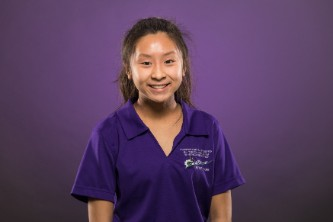
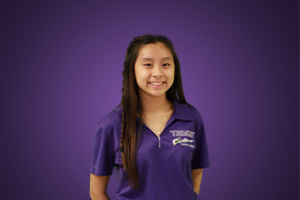
All team members who answered the survey 1/11/2020

diff --git a/src/pageLayouts/frc/Team/Team.js b/src/pageLayouts/frc/Team/Team.js
@@ -202,7 +202,7 @@ const Team = ({ teamList }) => {
               <QuoteLeft fill="grey" />
             </div>
             <img
-              src={require("../../../assets/images/frc/members/Programming/Programming.jpg")}
+              src={require("../../../assets/images/frc/members/Programming/Pro Team.png")}
               className="team__img"
             />
             <p>
@@ -265,7 +265,7 @@ const Team = ({ teamList }) => {
               <QuoteLeft fill="grey" />
             </div>
             <img
-              src={require("../../../assets/images/frc/members/Sponsorship/Sponsorship.jpg")}
+              src={require("../../../assets/images/frc/members/Sponsorship/Sponsorship.png")}
               className="team__img"
             />
             <p>
@@ -316,7 +316,7 @@ const Team = ({ teamList }) => {
               <QuoteLeft fill="grey" />
             </div>
             <img
-              src={require("../../../assets/images/frc/members/Outreach/Outreach.jpg")}
+              src={require("../../../assets/images/frc/members/Outreach/Outreach.png")}
               className="team__img"
             />
             <p>
@@ -387,45 +387,6 @@ const Team = ({ teamList }) => {
               {GetMember("Outreach", teamList)}
             </div>
           </Tab>
-          <Tab name="Strategy">
-            <h1>Strategy</h1>
-            <div className="team__greybox">
-              <h2>Subteam Specific Mission Statement</h2>
-              <QuoteRight fill="grey" />
-              To efficiently and accurately gather data on various aspects of
-              other teams and effectively present the data to the team to assist
-              in the decision making process for alliance selection.
-              <QuoteLeft fill="grey" />
-            </div>
-            <img src={require('../../../assets/images/frc/members/Strategy/Strategy.jpg')} className="team__img" />
-            <p>
-              The ILITE Strategy Team is responsible for gathering relevant data
-              on other team's performance according to this year's game. This
-              requires the development and use of organizational, decision
-              making, presentation, and quick thinking skills. The Strategy
-              Team's data helps ensure that informed decisions are made
-              regarding alliance selection and affiliated teams.
-            </p>
-            <div className="team__greybox">
-              <h2>Goals</h2>
-              <ol>
-                <li>
-                  To efficiently and accurately gather data on other teams.
-                </li>
-                <li>
-                  To effectively present gathered data to the team for alliance
-                  selection.
-                </li>
-                <li>
-                  To design an easily usable and game specific scouting form for
-                  implementation during competition.
-                </li>
-              </ol>
-            </div>
-            <div className="team__members">
-              {GetMember("Strategy", teamList)}
-            </div>
-          </Tab>
           <Tab name="Website">
             <h1>Website</h1>
             <div className="team__greybox">
@@ -435,7 +396,7 @@ const Team = ({ teamList }) => {
               <QuoteLeft fill="grey" />
             </div>
             <img
-              src={require("../../../assets/images/frc/members/Web/Web.jpg")}
+              src={require("../../../assets/images/frc/members/Web/Web Team Photo.jpg")}
               className="team__img"
             />
             <p>
@@ -499,7 +460,7 @@ const Team = ({ teamList }) => {
               <QuoteLeft fill="grey" />
             </div>
             <img
-              src={require("../../../assets/images/frc/members/Graphics/Graphics.jpg")}
+              src={require("../../../assets/images/frc/members/Graphics/Graphics Team.jpg")}
               className="team__img"
             />
             <p>
